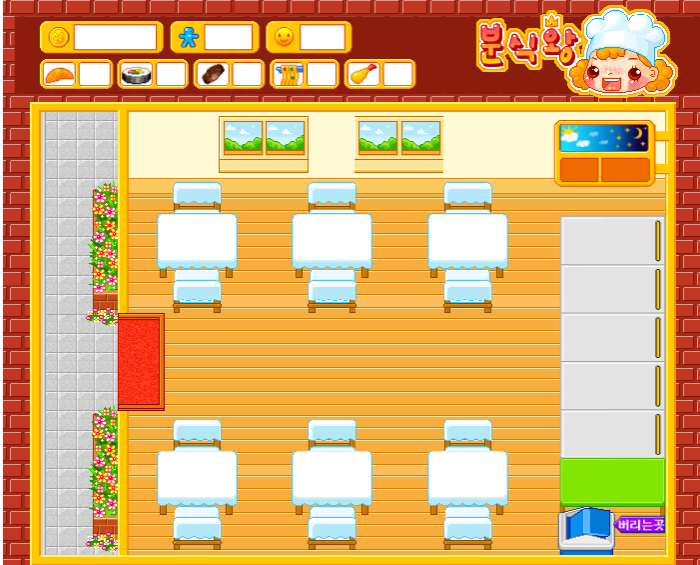
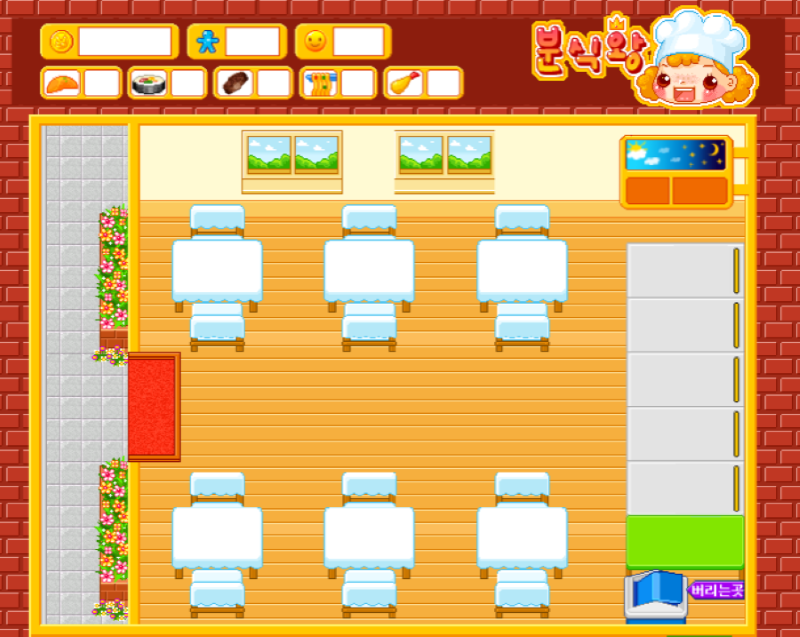
맵 및 캐릭터 띄우기 및 맵 리소스 수정

diff --git a/main.py b/main.py
@@ -1,0 +1,51 @@
+from pico2d import *
+import random
+from object_1 import *
+
+def handle_events():
+    global running
+    events = get_events()
+    for event in events:
+        if event.type == SDL_QUIT:
+            running = False
+        elif event.type == SDL_KEYDOWN and event.key == SDLK_ESCAPE:
+            running = False
+def reset_world():
+    global running
+    global map
+    global worker
+    global world
+
+    running = True
+    world = []
+
+    map = Map()
+    worker = Worker()
+    world.append(map)
+    world.append(worker)
+
+def update_world():
+    for o in world:
+        o.update()
+    pass
+
+def render_world():
+    clear_canvas()
+    for o in world:
+        o.draw()
+    update_canvas()
+
+open_canvas(800,717)
+
+# initialization code
+reset_world()
+# game main loop code
+
+while running :
+    handle_events()
+    update_world()
+    render_world()
+    delay(0.05)
+# finalization code
+
+close_canvas()

diff --git a/object_1.py b/object_1.py
@@ -1,0 +1,32 @@
+from pico2d import *
+import random
+# Game object class here
+class Map:
+    def __init__(self):
+        self.image = load_image('basic_map.png')
+        self.data = [[1,2,0,2,0,2,0,3],
+                     [1,1,0,1,0,1,0,3],
+                     [0,0,0,0,0,0,0,3],
+                     [0,0,0,0,0,0,0,3],
+                     [1,1,0,1,0,1,0,3],
+                     [1,2,0,2,0,2,0,3],
+                     [1,1,1,1,1,1,1,4]]
+
+    def draw(self):
+        self.image.draw(400,717/2)
+
+    def update(self):
+        pass
+
+
+
+class Worker:
+    def __init__(self):
+        self.x, self.y = 4,4
+        self.image = load_image('character.png')
+
+    def update(self):
+        pass
+
+    def draw(self):
+        self.image.draw((self.x) * 100 + 50,(self.y) * 100)
